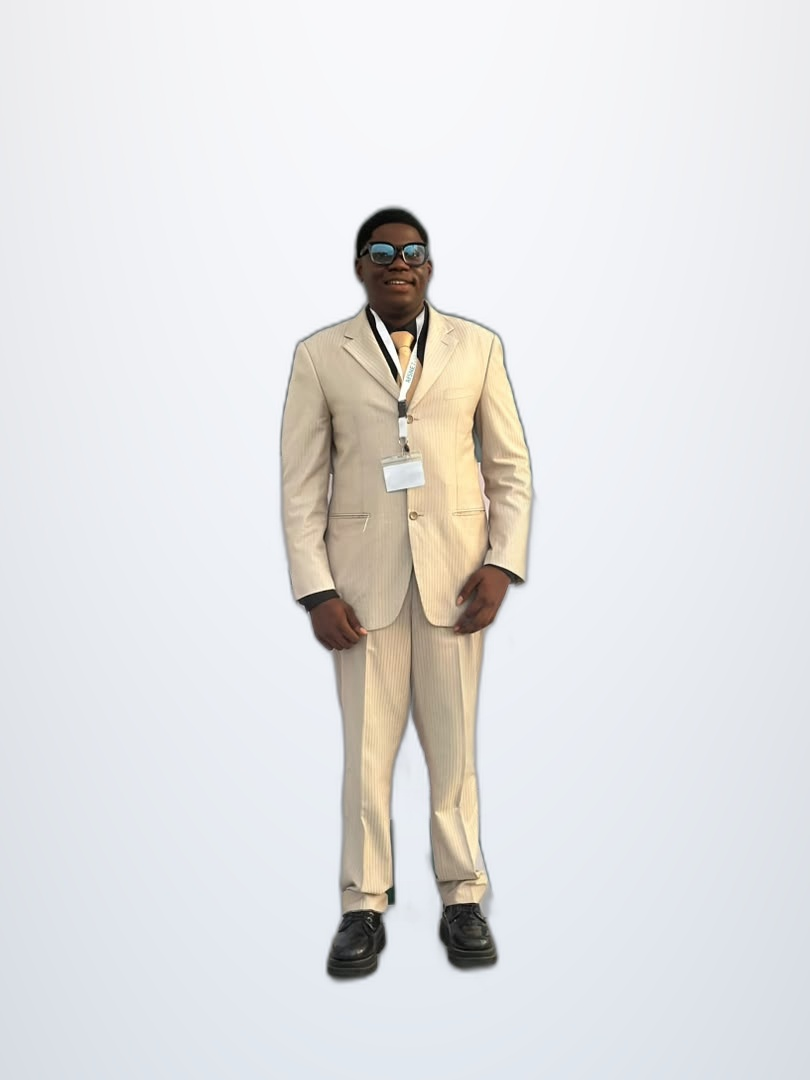
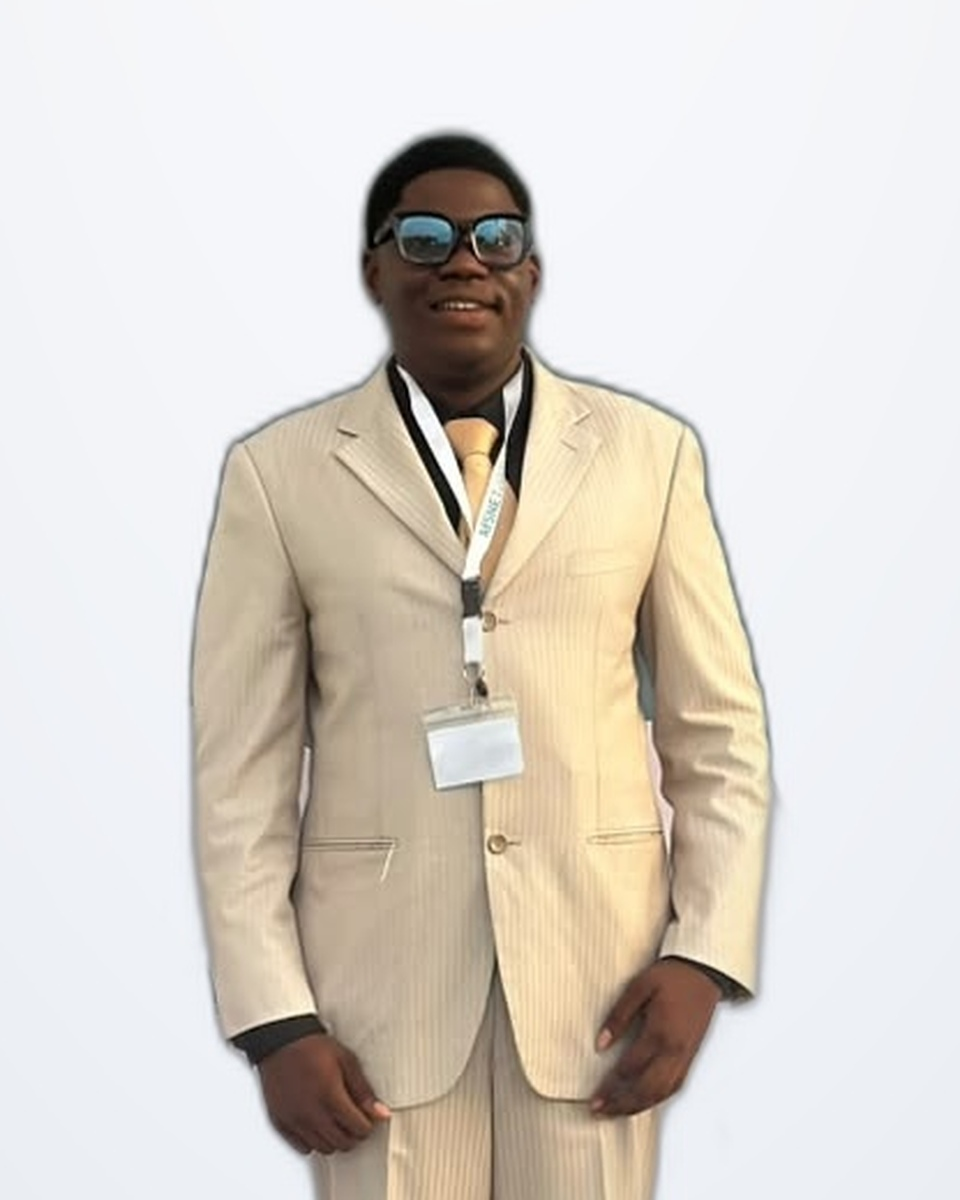
fix(founder): integrate waist-up executive portrait crop v2 and refine layout

diff --git a/src/pages/FounderPage.tsx b/src/pages/FounderPage.tsx
@@ -93,81 +93,80 @@ export default function FounderPage() {
         </div>
 
         {/* ─── Hero Section: Founder & CEO Profile ─── */}
-        <div className="mb-20 rounded-3xl bg-background-secondary border border-border-light p-8 sm:p-12 lg:p-16 shadow-subtle relative overflow-hidden">
+        <div className="mb-20 rounded-3xl bg-background-secondary border border-border-light p-6 sm:p-10 lg:p-12 shadow-subtle relative overflow-hidden">
           <div className="absolute top-0 right-0 w-96 h-96 bg-primary/5 rounded-full blur-3xl pointer-events-none" />
           <div className="absolute bottom-0 left-0 w-80 h-80 bg-cyan-accent/10 rounded-full blur-2xl pointer-events-none" />
 
-          <div className="grid grid-cols-1 lg:grid-cols-12 gap-10 lg:gap-14 items-center relative z-10">
-            {/* Main CEO Hero Photo Column */}
-            <div className="lg:col-span-5 flex flex-col items-center lg:items-start">
-              <div className="relative group w-full max-w-sm">
-                <div className="absolute -inset-1.5 bg-gradient-to-tr from-primary via-cyan-accent to-emerald-500 rounded-3xl blur opacity-35 group-hover:opacity-60 transition duration-500" />
-                <div className="relative rounded-2xl overflow-hidden bg-white border border-border-light shadow-xl aspect-[3/4] w-full">
-                  <img
-                    src="/images/founder/afSNET-founder-portrait-3.jpg"
-                    alt="David Gini Akanno - Founder &amp; CEO of Akanno Tech Labs Limited"
-                    className="w-full h-full object-cover object-top hover:scale-[1.02] transition-transform duration-500"
-                    loading="eager"
-                  />
-                  <div className="absolute bottom-0 inset-x-0 bg-gradient-to-t from-navy/95 via-navy/60 to-transparent p-5 text-white text-left">
-                    <p className="font-display font-bold text-xl leading-tight">David Gini Akanno</p>
-                    <p className="text-xs font-mono text-cyan-accent mt-0.5">Founder &amp; CEO</p>
-                    <p className="text-[11px] text-foreground-light/80 mt-1">Akanno Tech Labs Limited &bull; Calabar, Nigeria</p>
+          <div className="grid grid-cols-1 lg:grid-cols-12 gap-8 lg:gap-12 items-center relative z-10">
+            {/* Main CEO Hero Photo Column (45-50% width on desktop, prominent first on mobile) */}
+            <div className="lg:col-span-5 flex flex-col items-center">
+              <div className="w-full max-w-md lg:max-w-none">
+                <div className="relative rounded-2xl overflow-hidden bg-white border border-border-light shadow-card group">
+                  <div className="aspect-[4/5] w-full relative overflow-hidden bg-slate-100">
+                    <img
+                      src="/images/founder/david-gini-akanno-executive-crop-v2.png"
+                      alt="David Gini Akanno - Founder &amp; CEO of Akanno Tech Labs Limited"
+                      className="w-full h-full object-cover object-top hover:scale-[1.01] transition-transform duration-500"
+                      loading="eager"
+                    />
                   </div>
                 </div>
-              </div>
 
-              {/* Caption / Attribution Card */}
-              <div className="mt-4 p-3.5 rounded-xl bg-white border border-border-light text-[11px] text-foreground-muted flex items-start gap-2.5 max-w-sm shadow-2xs">
-                <CheckCircle2 size={16} className="text-emerald-600 shrink-0 mt-0.5" />
-                <span>
-                  <strong>Official Corporate Portrait:</strong> David Gini Akanno &bull; Founder &amp; Software Developer, Akanno Tech Labs Limited (Calabar, Nigeria).
-                </span>
+                {/* Attribution / Verification Bar Underneath */}
+                <div className="mt-3.5 px-4 py-2.5 rounded-xl bg-white/80 border border-border-light text-[11px] text-foreground-muted flex items-center justify-between shadow-2xs">
+                  <div className="flex items-center gap-2">
+                    <CheckCircle2 size={15} className="text-emerald-600 shrink-0" />
+                    <span className="font-medium text-navy">Verified Corporate Portrait</span>
+                  </div>
+                  <span className="font-mono text-[10px] text-foreground-subtle">Calabar, Nigeria</span>
+                </div>
               </div>
             </div>
 
             {/* Founder Biography Column */}
-            <div className="lg:col-span-7 space-y-6">
-              <ScrollReveal>
+            <div className="lg:col-span-7">
+              <ScrollReveal className="space-y-5">
                 <div className="inline-flex items-center gap-2 px-3.5 py-1 rounded-full text-xs font-semibold uppercase tracking-wider bg-primary/10 text-primary border border-primary/20">
                   <Sparkles size={13} />
                   <span>Executive Leadership &bull; RC 9986069</span>
                 </div>
 
-                <h1 className="font-display text-4xl sm:text-5xl lg:text-6xl font-bold tracking-tight text-navy mt-4 mb-1">
-                  David Gini Akanno
-                </h1>
+                <div className="mt-3">
+                  <h1 className="font-display text-3xl sm:text-4xl lg:text-5xl font-bold tracking-tight text-navy">
+                    David Gini Akanno
+                  </h1>
 
-                <p className="font-display text-xl sm:text-2xl font-bold text-primary">
-                  Founder &amp; CEO — Akanno Tech Labs Limited
-                </p>
+                  <p className="font-display text-lg sm:text-xl font-bold text-primary mt-1">
+                    Founder &amp; CEO — Akanno Tech Labs Limited
+                  </p>
 
-                <p className="text-sm sm:text-base font-mono text-foreground-muted">
-                  Software Developer | Cybersecurity Enthusiast | Technology Entrepreneur
-                </p>
+                  <p className="text-xs sm:text-sm font-mono text-foreground-muted mt-1">
+                    Software Developer | Cybersecurity Enthusiast | Technology Entrepreneur
+                  </p>
+                </div>
 
                 {/* Location & Contact Bar */}
                 <div className="flex flex-wrap items-center gap-4 text-xs font-mono text-foreground-muted py-2.5 border-y border-border-light">
                   <div className="flex items-center gap-1.5">
-                    <MapPin size={15} className="text-primary shrink-0" />
+                    <MapPin size={14} className="text-primary shrink-0" />
                     <span>Calabar, Cross River State, Nigeria</span>
                   </div>
                   <span>&bull;</span>
                   <div className="flex items-center gap-1.5">
-                    <Mail size={15} className="text-primary shrink-0" />
+                    <Mail size={14} className="text-primary shrink-0" />
                     <a href="mailto:davidakanno56@gmail.com" className="text-navy hover:underline">
                       davidakanno56@gmail.com
                     </a>
                   </div>
                   <span>&bull;</span>
                   <div className="flex items-center gap-1.5">
-                    <Shield size={15} className="text-emerald-600 shrink-0" />
+                    <Shield size={14} className="text-emerald-600 shrink-0" />
                     <span>Defensive Security Focus</span>
                   </div>
                 </div>
 
                 {/* Canonical Biography */}
-                <div className="space-y-4 text-foreground-muted leading-relaxed text-base pt-2">
+                <div className="space-y-3.5 text-foreground-muted leading-relaxed text-sm sm:text-base pt-1">
                   <p>
                     David Gini Akanno is a Nigerian technology entrepreneur, software developer and founder of <strong>Akanno Tech Labs Limited</strong>, a technology company established in November 2026.
                   </p>
@@ -186,17 +185,17 @@ export default function FounderPage() {
                 </div>
 
                 {/* Action CTAs */}
-                <div className="pt-4 flex flex-wrap items-center gap-3">
+                <div className="pt-3 flex flex-wrap items-center gap-3">
                   <a
                     href="mailto:davidakanno56@gmail.com?subject=Executive%20Inquiry%20for%20David%20Gini%20Akanno%20-%20Akanno%20Tech%20Labs"
-                    className="inline-flex items-center gap-2 px-6 py-3.5 rounded-xl bg-primary text-white font-semibold text-sm shadow-sm hover:bg-primary-hover hover:shadow-glow-blue/30 transition-all"
+                    className="inline-flex items-center gap-2 px-6 py-3 rounded-xl bg-primary text-white font-semibold text-sm shadow-sm hover:bg-primary-hover hover:shadow-glow-blue/30 transition-all"
                   >
-                    <Mail size={16} />
+                    <Mail size={15} />
                     <span>Contact Founder Directly</span>
                   </a>
                   <Link
                     to="/products"
-                    className="inline-flex items-center gap-2 px-5 py-3.5 rounded-xl bg-white border border-border-light text-navy font-semibold text-sm hover:bg-background-secondary transition-colors"
+                    className="inline-flex items-center gap-2 px-5 py-3 rounded-xl bg-white border border-border-light text-navy font-semibold text-sm hover:bg-background-secondary transition-colors"
                   >
                     <span>Explore Our Products</span>
                     <ArrowRight size={15} />
@@ -403,7 +402,7 @@ export default function FounderPage() {
         <div className="mb-24 p-8 sm:p-12 rounded-3xl bg-background-secondary border border-border-light shadow-subtle">
           <div className="grid grid-cols-1 lg:grid-cols-12 gap-10 items-center">
             <div className="lg:col-span-4 flex justify-center">
-              <div className="w-56 sm:w-64 rounded-2xl overflow-hidden border border-border-light bg-white shadow-md aspect-[3/4]">
+              <div className="w-56 sm:w-64 rounded-2xl overflow-hidden border border-border-light bg-white shadow-md aspect-[4/5]">
                 <img
                   src="/images/founder/afSNET-founder-portrait-1.jpg"
                   alt="David Gini Akanno - Editorial Portrait"
